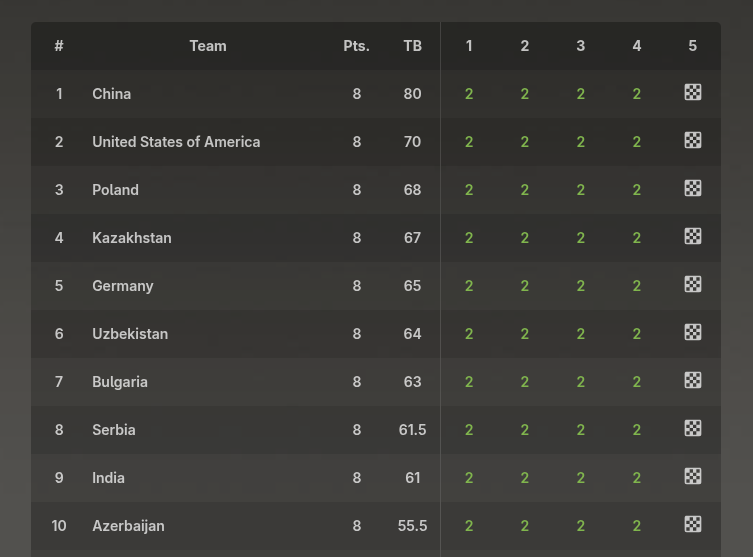
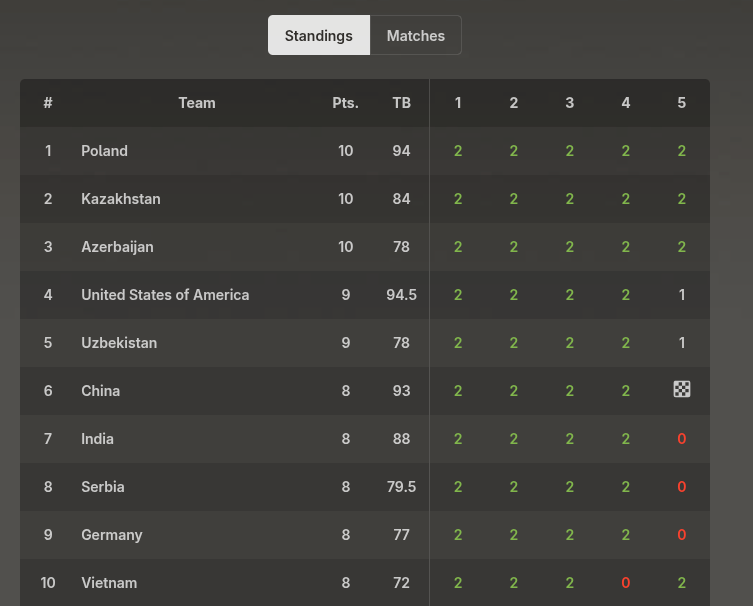
ronde 5

diff --git a/public/articles/46chessolympiad/index.html b/public/articles/46chessolympiad/index.html
@@ -4,7 +4,7 @@
     <meta charset="utf-8">
     <meta http-equiv="X-UA-Compatible" content="IE=edge,chrome=1">
     
-    <title>46e Schaak Olympiade: Ronde 4 | Start</title>
+    <title>46e Schaak Olympiade: Ronde 5 | Start</title>
     <meta name="viewport" content="width=device-width,minimum-scale=1">
     <meta name="description" content="
 
@@ -110,7 +110,7 @@ In September 2026, Samarkand stands at the centre of the chess world as the 46th
     
     <meta property="og:url" content="http://localhost:1313/okra/articles/46chessolympiad/">
 	<meta property="og:site_name" content="Start">
-	<meta property="og:title" content="46e Schaak Olympiade: Ronde 4">
+	<meta property="og:title" content="46e Schaak Olympiade: Ronde 5">
 	<meta property="og:description" content="Overgenomen uit de FIDE pagina:
 &#34;&#34;&#34; Every two years, national teams from across the world gather under their flags at the FIDE Chess Olympiad, representing the highest level of team competition in the game. Established champions and emerging talents meet across the board, carrying both global reputations and national pride.
 In September 2026, Samarkand stands at the centre of the chess world as the 46th FIDE Chess Olympiad brings together the game’s leading nations for its most prestigious team championship.">
@@ -120,7 +120,7 @@ In September 2026, Samarkand stands at the centre of the chess world as the 46th
 		<meta property="article:published_time" content="2026-09-20T15:39:41+02:00">
 		<meta property="article:modified_time" content="2026-09-20T15:39:41+02:00">
 
-	<meta itemprop="name" content="46e Schaak Olympiade: Ronde 4">
+	<meta itemprop="name" content="46e Schaak Olympiade: Ronde 5">
 	<meta itemprop="description" content="Overgenomen uit de FIDE pagina:
 &#34;&#34;&#34; Every two years, national teams from across the world gather under their flags at the FIDE Chess Olympiad, representing the highest level of team competition in the game. Established champions and emerging talents meet across the board, carrying both global reputations and national pride.
 In September 2026, Samarkand stands at the centre of the chess world as the 46th FIDE Chess Olympiad brings together the game’s leading nations for its most prestigious team championship.">
@@ -128,7 +128,7 @@ In September 2026, Samarkand stands at the centre of the chess world as the 46th
 	<meta itemprop="dateModified" content="2026-09-20T15:39:41+02:00">
 	<meta itemprop="wordCount" content="185">
 	<meta name="twitter:card" content="summary">
-	<meta name="twitter:title" content="46e Schaak Olympiade: Ronde 4">
+	<meta name="twitter:title" content="46e Schaak Olympiade: Ronde 5">
 	<meta name="twitter:description" content="Overgenomen uit de FIDE pagina:
 &#34;&#34;&#34; Every two years, national teams from across the world gather under their flags at the FIDE Chess Olympiad, representing the highest level of team competition in the game. Established champions and emerging talents meet across the board, carrying both global reputations and national pride.
 In September 2026, Samarkand stands at the centre of the chess world as the 46th FIDE Chess Olympiad brings together the game’s leading nations for its most prestigious team championship.">
@@ -221,7 +221,7 @@ In September 2026, Samarkand stands at the centre of the chess world as the 46th
     <header class="mt4 w-100"><aside class="instapaper_ignoref b helvetica tracked ttu">
     <a class="link dim" href="http://localhost:1313/okra/articles/">Artikelen</a>
   </aside><div id="sharing" class="mt3 ananke-socials"></div>
-<h1 class="f1 athelas mt3 mb1">46e Schaak Olympiade: Ronde 4</h1>
+<h1 class="f1 athelas mt3 mb1">46e Schaak Olympiade: Ronde 5</h1>
       
       
       
@@ -244,7 +244,7 @@ In September 2026, Samarkand stands at the centre of the chess world as the 46th
 &quot;&quot;&quot;</p>
 <p>Volgens <a href="https://en.wikipedia.org/wiki/46th_Chess_Olympiad">Wikipedia</a> spelen er 191 ploegen in de Vrouwen-reeks en 202 ploegen in de Open-reeks.</p>
 <p>Ook België speelt met 2 ploegen.</p>
-<p>Na 4 ronden hebben we de volgende resultaten:</p>
+<p>Na 5 ronden hebben we de volgende resultaten:</p>
 <p><strong>Open tornooi</strong></p>
 <!--
 .image open.png

diff --git a/public/overview/index.html b/public/overview/index.html
@@ -114,7 +114,7 @@
 	<meta property="og:description" content="September 2026 Schaken op 21-09-2026 (sessie)
 Toren tegen pion (1): de Saavedra positie (puzzel)
 Sindarov on Fire (partij)
-46e Schaak Olympiade: Ronde 4 (artikel)
+46e Schaak Olympiade: Ronde 5 (artikel)
 Interview met Jan Timman (artikel)
 Partij tegen Ann-Sophie (2) (partij)
 Gelijk spel (reglement)">
@@ -125,19 +125,19 @@ Gelijk spel (reglement)">
 	<meta itemprop="description" content="September 2026 Schaken op 21-09-2026 (sessie)
 Toren tegen pion (1): de Saavedra positie (puzzel)
 Sindarov on Fire (partij)
-46e Schaak Olympiade: Ronde 4 (artikel)
+46e Schaak Olympiade: Ronde 5 (artikel)
 Interview met Jan Timman (artikel)
 Partij tegen Ann-Sophie (2) (partij)
 Gelijk spel (reglement)">
-	<meta itemprop="datePublished" content="2026-09-20T16:32:30+02:00">
-	<meta itemprop="dateModified" content="2026-09-20T16:32:30+02:00">
+	<meta itemprop="datePublished" content="2026-09-20T17:23:12+02:00">
+	<meta itemprop="dateModified" content="2026-09-20T17:23:12+02:00">
 	<meta itemprop="wordCount" content="646">
 	<meta name="twitter:card" content="summary">
 	<meta name="twitter:title" content="Overzicht">
 	<meta name="twitter:description" content="September 2026 Schaken op 21-09-2026 (sessie)
 Toren tegen pion (1): de Saavedra positie (puzzel)
 Sindarov on Fire (partij)
-46e Schaak Olympiade: Ronde 4 (artikel)
+46e Schaak Olympiade: Ronde 5 (artikel)
 Interview met Jan Timman (artikel)
 Partij tegen Ann-Sophie (2) (partij)
 Gelijk spel (reglement)">
@@ -250,7 +250,7 @@ Gelijk spel (reglement)">
 <!--
 .link articles/46chessolympiad/index.md
 -->
-<p><a href="/okra/articles/46chessolympiad/">46e Schaak Olympiade: Ronde 4</a> <span style='font-size: smaller;cursor: pointer' onclick='navigator.clipboard.writeText("articles/46chessolympiad/index.md");'>(artikel)</span></p>
+<p><a href="/okra/articles/46chessolympiad/">46e Schaak Olympiade: Ronde 5</a> <span style='font-size: smaller;cursor: pointer' onclick='navigator.clipboard.writeText("articles/46chessolympiad/index.md");'>(artikel)</span></p>
 <!--
 .link articles/jantimmaninterview/index.md
 -->

diff --git a/public/index.html b/public/index.html
@@ -407,7 +407,7 @@
         
         <h1 class="f3 fw1 athelas mt0 lh-title">
           <a href="/okra/articles/46chessolympiad/" class="color-inherit dim link">
-            46e Schaak Olympiade: Ronde 4
+            46e Schaak Olympiade: Ronde 5
             </a>
         </h1>
         <div class="f6 f5-l lh-copy nested-copy-line-height nested-links">

diff --git a/public/articles/index.html b/public/articles/index.html
@@ -228,7 +228,7 @@
     
     <h1 class="f3 near-black">
       <a href="/okra/articles/46chessolympiad/" class="link black dim">
-        46e Schaak Olympiade: Ronde 4
+        46e Schaak Olympiade: Ronde 5
       </a>
     </h1>
     <div class="nested-links f5 lh-copy nested-copy-line-height">

diff --git a/content/overview/_index.md b/content/overview/_index.md
@@ -1,5 +1,5 @@
 +++
-date = '2026-09-20T16:32:30+02:00'
+date = '2026-09-20T17:23:12+02:00'
 title = 'Overzicht'
 featured_image = '/images/overview.jpg'
 weight = 10
@@ -24,7 +24,7 @@ weight = 10
 <!--
 .link articles/46chessolympiad/index.md
 -->
-[46e Schaak Olympiade: Ronde 4]({{< relref "/articles/46chessolympiad/index.md">}}) <span style='font-size: smaller;cursor: pointer' onclick='navigator.clipboard.writeText("articles/46chessolympiad/index.md");'>(artikel)</span>
+[46e Schaak Olympiade: Ronde 5]({{< relref "/articles/46chessolympiad/index.md">}}) <span style='font-size: smaller;cursor: pointer' onclick='navigator.clipboard.writeText("articles/46chessolympiad/index.md");'>(artikel)</span>
 <!--
 .link articles/jantimmaninterview/index.md
 -->

diff --git a/content/articles/46chessolympiad/index.md b/content/articles/46chessolympiad/index.md
@@ -1,6 +1,6 @@
 +++
 date = '2026-09-20T15:39:41+02:00'
-title = '46e Schaak Olympiade: Ronde 4'
+title = '46e Schaak Olympiade: Ronde 5'
 weight = 9223372036642704626
 +++
 
@@ -26,7 +26,7 @@ Volgens [Wikipedia](https://en.wikipedia.org/wiki/46th_Chess_Olympiad) spelen er
 Ook België speelt met 2 ploegen.
 
 
-Na 4 ronden hebben we de volgende resultaten:
+Na 5 ronden hebben we de volgende resultaten:
 
 **Open tornooi**
 
